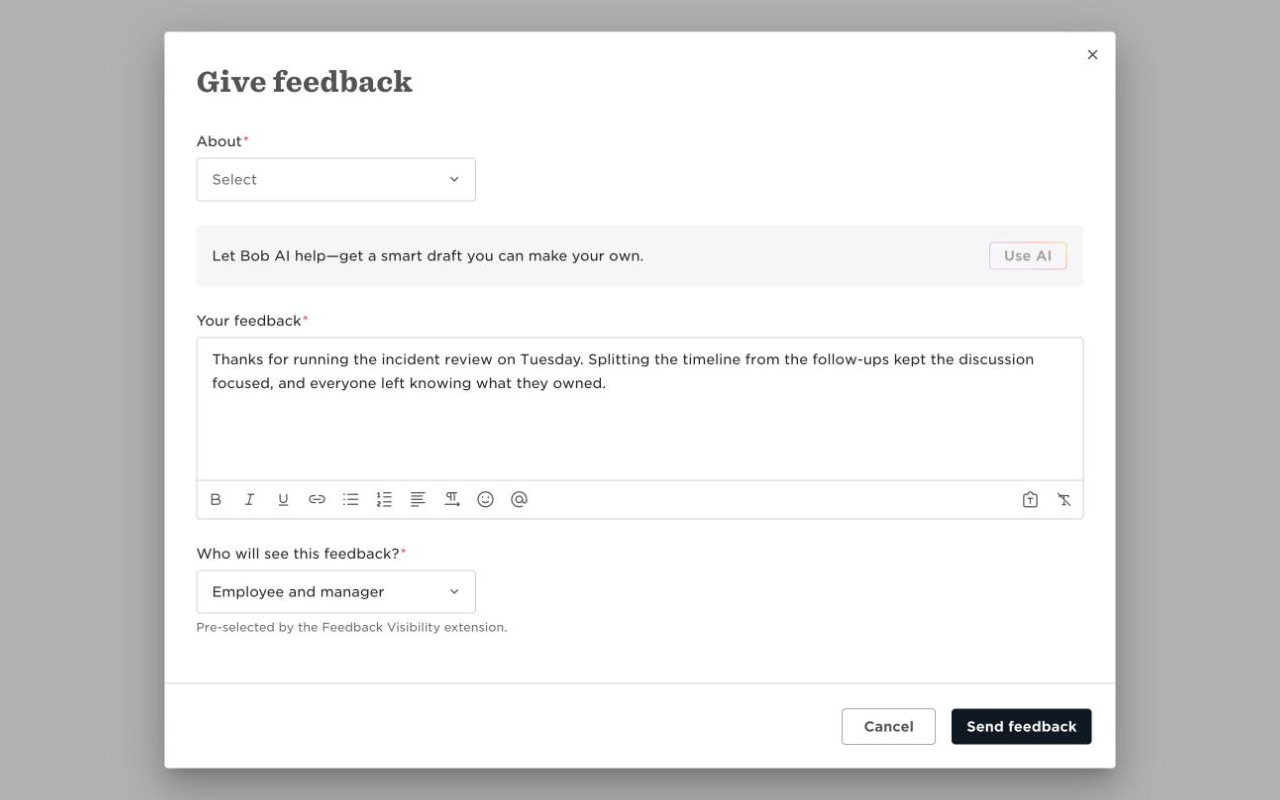
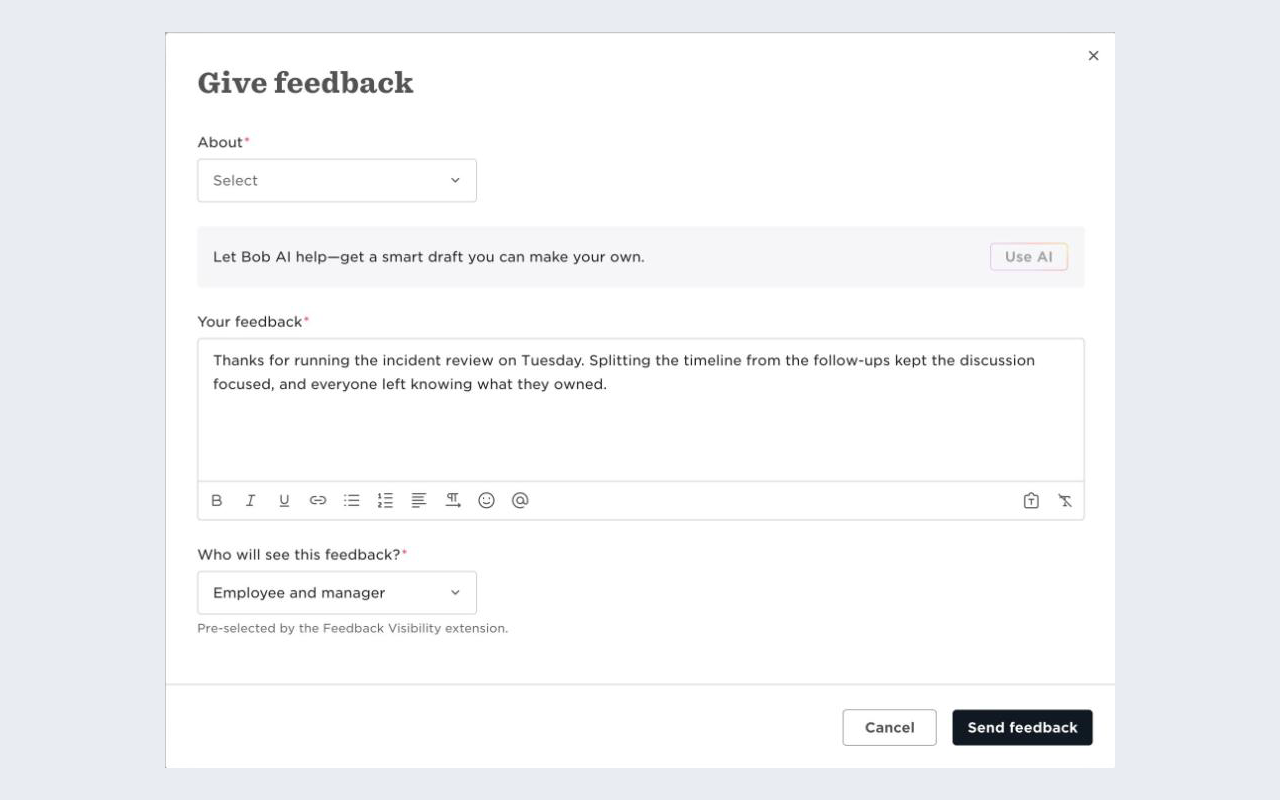
Crop screenshots to the feedback dialog and show it in the README

diff --git a/README.md b/README.md
@@ -4,6 +4,8 @@ An unofficial Chrome extension for [HiBob](https://app.hibob.com). When you open
 
 It does this once, as the form opens, and shows a small note under the field saying it did. If you pick something else afterwards, your choice stays and the note goes away.
 
+<img src="docs/dialog.png" alt="HiBob's Give feedback form with 'Who will see this feedback?' set to Employee and manager, and the note 'Pre-selected by the Feedback Visibility extension.' under it" width="600">
+
 ## Install (5 minutes, no technical knowledge needed)
 
 1. Go to the [latest release](https://github.com/jacobo-doist/feedback-visibility-hibob/releases/latest) and download **feedback-visibility-hibob.zip** (under *Assets*).
